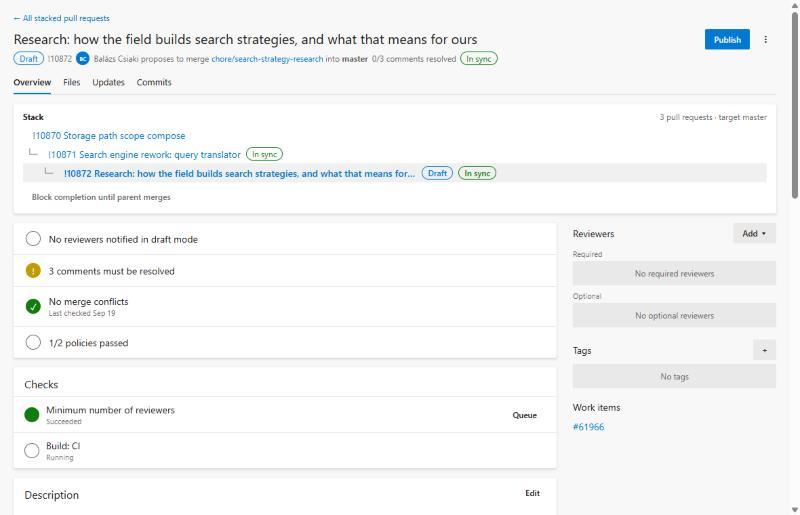
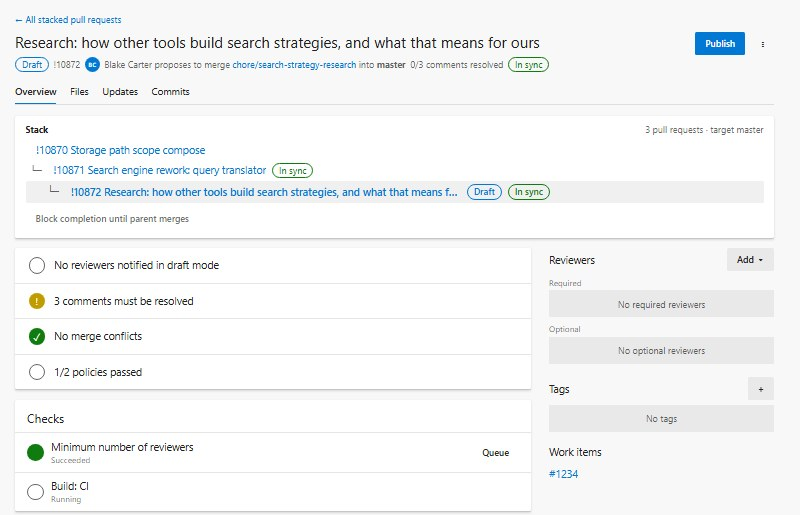
Anonymize mock data, space out stack chips, refresh README screenshots

diff --git a/src/harness/mockService.ts b/src/harness/mockService.ts
@@ -6,9 +6,9 @@ import { toPrInfo, RawPullRequest } from "../core/api/mapping";
  * In-memory stand-in for StackedPrService used by the visual harness and by
  * screenshots in the docs. It models a three-PR stack plus unrelated PRs in two repositories.
  */
-const me = { id: "me", displayName: "Ádám Kovács", imageUrl: "" };
-const bc = { id: "bc", displayName: "Balázs Csiaki", imageUrl: "" };
-const zn = { id: "zn", displayName: "Zsolt Nagy", imageUrl: "" };
+const me = { id: "me", displayName: "Alex Morgan", imageUrl: "" };
+const bc = { id: "bc", displayName: "Blake Carter", imageUrl: "" };
+const zn = { id: "zn", displayName: "Zoe Nolan", imageUrl: "" };
 
 const iso = (d: string) => new Date(d);
 
@@ -30,13 +30,13 @@ interface MockPr {
   labels: { id: string; name: string }[];
 }
 
-const repo = { id: "repo-hub", name: "hubscience-systematic-review" };
-const repo2 = { id: "repo-api", name: "hubscience-api" };
+const repo = { id: "repo-hub", name: "acme-research-portal" };
+const repo2 = { id: "repo-api", name: "acme-api" };
 
 const prs: MockPr[] = [
   {
     pullRequestId: 10870, repository: repo, title: "Storage path scope compose", isDraft: false, status: 1,
-    sourceRefName: "refs/heads/feature/61966-storage-path-scope-compose", targetRefName: "refs/heads/master",
+    sourceRefName: "refs/heads/feature/1234-storage-path-scope-compose", targetRefName: "refs/heads/master",
     lastMergeSourceCommit: { commitId: "a1a1a1a1a1a1" }, lastMergeTargetCommit: { commitId: "0000aaaa0000" }, mergeStatus: 3,
     createdBy: zn, creationDate: iso("2026-10-01T09:00:00Z"), description: "Introduces the **storage scope** composition used by the search engine.",
     reviewers: [{ id: "me", displayName: me.displayName, imageUrl: "", vote: 0, isRequired: true }, { id: "bc", displayName: bc.displayName, imageUrl: "", vote: 10 }], labels: [{ id: "l1", name: "backend" }]
@@ -49,11 +49,11 @@ const prs: MockPr[] = [
     reviewers: [{ id: "me", displayName: me.displayName, imageUrl: "", vote: 5 }, { id: "zn", displayName: zn.displayName, imageUrl: "", vote: 0 }], labels: []
   },
   {
-    pullRequestId: 10872, repository: repo, title: "Research: how the field builds search strategies, and what that means for ours", isDraft: true, status: 1,
+    pullRequestId: 10872, repository: repo, title: "Research: how other tools build search strategies, and what that means for ours", isDraft: true, status: 1,
     sourceRefName: "refs/heads/chore/search-strategy-research", targetRefName: "refs/heads/master",
     lastMergeSourceCommit: { commitId: "c3c3c3c3c3c3" }, lastMergeTargetCommit: { commitId: "0000aaaa0000" }, mergeStatus: 3,
     createdBy: bc, creationDate: iso("2026-09-19T08:35:00Z"),
-    description: "## Summary\n\nDocumentation only. Research into how other systematic review systems get from a research question to a set of ready-made search expressions.\n\n- `docs/RESEARCH-search-strategy-construction.md` is the decision document.\n- `docs/research/` carries the four evidence documents.\n\n**Findings that change what we can build:**\n\n- Cochrane publishes nine strings, all study-design filters.\n- The paediatric filters span 58.5% to 99.5% sensitivity.",
+    description: "## Summary\n\nDocumentation only. Research into how comparable products get from a user question to a set of ready-made search expressions.\n\n- `docs/RESEARCH-search-strategy-construction.md` is the decision document.\n- `docs/research/` carries the four supporting documents.\n\n**Findings that change what we can build:**\n\n- Most products publish a handful of strings, all generic filters.\n- Published filters vary widely in how much they catch.",
     reviewers: [], labels: []
   },
   {
@@ -98,8 +98,8 @@ const FILES: Record<string, Record<string, string>> = {
     "/docs/ROADMAP.md": "# Roadmap\n\n- Search (rework)\n- Screening\n- Export\n",
     "/src/storage.ts": "export const scope = 'project';\nexport function path(id: string) {\n  return `/data/${scope}/${id}`;\n}\nexport function compose(...parts: string[]) {\n  return parts.join('/');\n}\n",
     "/src/translator.ts": "export class FrameworkQueryTranslator {\n  translate(q: string) {\n    return q.trim();\n  }\n}\n",
-    "/docs/RESEARCH-search-strategy-construction.md": "# Search strategy construction\n\nThis document answers three questions.\n\n1. How do Rayyan and EasySLR build search?\n2. What solutions exist?\n3. Do Cochrane publish ready-made strings?\n",
-    "/docs/research/search-filter-catalogue.md": "# A Catalogue of Reusable Search Filters\n\n**Answering: are there ready-made search expressions?**\n\nShort answer: yes for study design.\n"
+    "/docs/RESEARCH-search-strategy-construction.md": "# Search strategy construction\n\nThis document answers three questions.\n\n1. How do other tools build search?\n2. What solutions exist?\n3. Do vendors publish ready-made strings?\n",
+    "/docs/research/search-filter-catalogue.md": "# A Catalogue of Reusable Search Filters\n\n**Answering: are there ready-made search expressions?**\n\nShort answer: yes for generic filters.\n"
   }
 };
 
@@ -125,9 +125,9 @@ const threads: Record<number, ThreadLike[]> = {
 
 const iterations: Record<number, unknown[]> = {
   10872: [
-    { id: 1, author: bc, createdDate: iso("2026-09-19T08:35:00Z"), commits: [{ commitId: "c3c3c3c3c3c3", comment: "How the field builds search strategies, and what that means for ours", author: { name: "Balázs Csiaki", date: iso("2026-09-19T08:35:00Z") } }], sourceRefCommit: { commitId: "c3c3c3c3c3c3" }, commonRefCommit: { commitId: "base" }, newTargetRefName: "refs/heads/master", oldTargetRefName: "refs/heads/master" },
-    { id: 2, author: zn, createdDate: iso("2026-10-05T10:00:00Z"), commits: [], sourceRefCommit: { commitId: "c3c3c3c3c3c3" }, commonRefCommit: { commitId: "base" }, newTargetRefName: "refs/heads/feature/61966-storage-path-scope-compose", oldTargetRefName: "refs/heads/master" },
-    { id: 3, author: zn, createdDate: iso("2026-10-05T10:05:00Z"), commits: [], sourceRefCommit: { commitId: "c3c3c3c3c3c3" }, commonRefCommit: { commitId: "base" }, newTargetRefName: "refs/heads/master", oldTargetRefName: "refs/heads/feature/61966-storage-path-scope-compose" }
+    { id: 1, author: bc, createdDate: iso("2026-09-19T08:35:00Z"), commits: [{ commitId: "c3c3c3c3c3c3", comment: "How other tools build search strategies, and what that means for ours", author: { name: "Blake Carter", date: iso("2026-09-19T08:35:00Z") } }], sourceRefCommit: { commitId: "c3c3c3c3c3c3" }, commonRefCommit: { commitId: "base" }, newTargetRefName: "refs/heads/master", oldTargetRefName: "refs/heads/master" },
+    { id: 2, author: zn, createdDate: iso("2026-10-05T10:00:00Z"), commits: [], sourceRefCommit: { commitId: "c3c3c3c3c3c3" }, commonRefCommit: { commitId: "base" }, newTargetRefName: "refs/heads/feature/1234-storage-path-scope-compose", oldTargetRefName: "refs/heads/master" },
+    { id: 3, author: zn, createdDate: iso("2026-10-05T10:05:00Z"), commits: [], sourceRefCommit: { commitId: "c3c3c3c3c3c3" }, commonRefCommit: { commitId: "base" }, newTargetRefName: "refs/heads/master", oldTargetRefName: "refs/heads/feature/1234-storage-path-scope-compose" }
   ]
 };
 
@@ -161,7 +161,7 @@ export function createMockService(): StackedPrService {
   const noop = () => delay(undefined as never);
 
   const mock = {
-    ctx: { projectId: "p", projectName: "HubScience", userId: "me", userName: me.displayName },
+    ctx: { projectId: "p", projectName: "Contoso", userId: "me", userName: me.displayName },
     loadStacks: () => delay(snapshot),
     getPullRequest: (_r: string, id: number) => delay(rawFor(prs.find((p) => p.pullRequestId === id)!) as never),
     getIterations: (_r: string, id: number) => delay((iterations[id] ?? defaultIteration(prs.find((p) => p.pullRequestId === id)!)) as never),
@@ -170,7 +170,7 @@ export function createMockService(): StackedPrService {
     getThreads: (_r: string, id: number) => delay((threads[id] ?? []) as never),
     getStatuses: () => delay([] as never),
     getPolicyEvaluations: () => delay([{ evaluationId: "e1", status: 2, configuration: { type: { displayName: "Minimum number of reviewers" } }, context: {} }, { evaluationId: "e2", status: 1, configuration: { type: { displayName: "Build" } }, context: { buildDefinitionName: "CI" } }] as never),
-    getWorkItemRefs: () => delay([{ id: "61966" }] as never),
+    getWorkItemRefs: () => delay([{ id: "1234" }] as never),
     getNativeChanges: (pr: { headSha: string }) => delay(filesBetween("base", pr.headSha) as never),
     getLayerRange: (child: { headSha: string }, parent: { headSha: string }) => delay({ baseSha: parent.headSha, headSha: child.headSha, files: filesBetween(parent.headSha, child.headSha) } as never),
     getFileText: (_r: string, path: string, sha: string) => delay((FILES[sha] ?? {})[path] ?? ""),

diff --git a/src/ui/list/StackList.tsx b/src/ui/list/StackList.tsx
@@ -164,8 +164,10 @@ export function StackList() {
                       {shortRef(pr.sourceRef)} → {shortRef(pr.targetRef)}
                     </td>
                     <td>
-                      <HealthPill health={node.health} conflicts={node.hasConflicts} />
-                      {node.childIds.length > 0 && <span className="sp-pill muted" title="Pull requests stacked on this one">{node.childIds.length} stacked</span>}
+                      <div className="sp-chips">
+                        <HealthPill health={node.health} conflicts={node.hasConflicts} />
+                        {node.childIds.length > 0 && <span className="sp-pill muted" title="Pull requests stacked on this one">{node.childIds.length} stacked</span>}
+                      </div>
                     </td>
                     <td>
                       <span style={{ display: "inline-flex", alignItems: "center", gap: 6 }}>

diff --git a/test/format.test.ts b/test/format.test.ts
@@ -5,7 +5,7 @@ describe("format helpers", () => {
   const now = new Date("2026-10-12T12:00:00Z");
 
   it("builds initials", () => {
-    expect(initials("Balázs Csiaki")).toBe("BC");
+    expect(initials("Blake Carter")).toBe("BC");
     expect(initials("Cher")).toBe("CH");
     expect(initials(undefined)).toBe("?");
   });

diff --git a/test/components.test.tsx b/test/components.test.tsx
@@ -35,7 +35,7 @@ describe("common components", () => {
   });
 
   it("falls back to initials without an avatar url", () => {
-    expect(renderToStaticMarkup(<Avatar name="Zsolt Nagy" />)).toContain("ZN");
+    expect(renderToStaticMarkup(<Avatar name="Zoe Nolan" />)).toContain("ZN");
   });
 });
 

diff --git a/src/ui/styles.scss b/src/ui/styles.scss
@@ -166,6 +166,13 @@ button {
   }
 }
 
+.sp-chips {
+  display: flex;
+  flex-wrap: wrap;
+  align-items: center;
+  gap: 6px;
+}
+
 .sp-pill {
   display: inline-flex;
   align-items: center;
